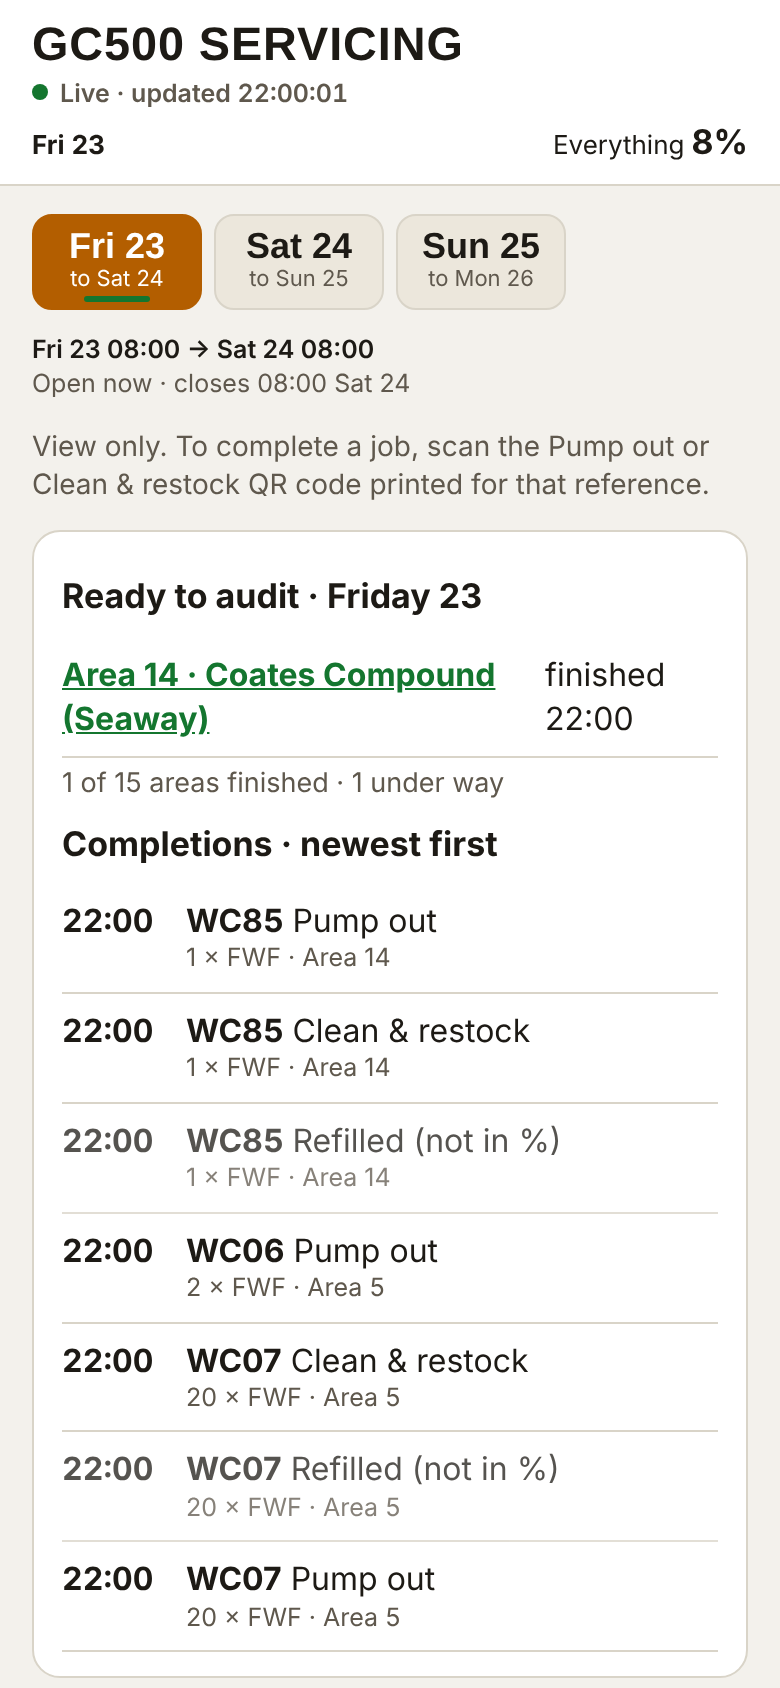
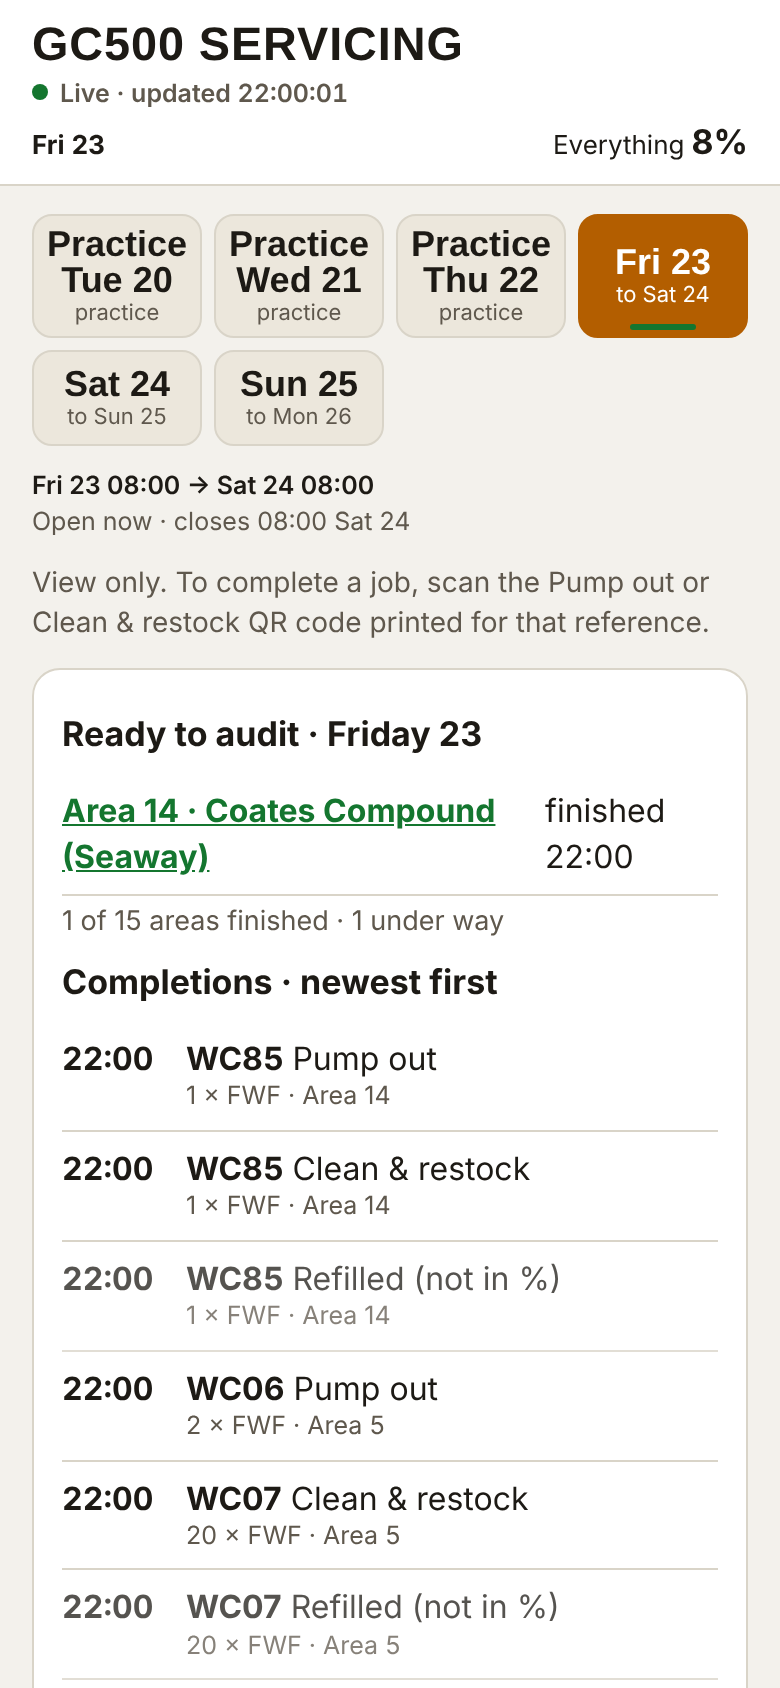
v10.86 LIVE: practice days so permanent servicing codes tick now; T0024 to Area 3, WC85 to Area 14
Claude-Session: https://claude.ai/code/session_01GNRrrx1C9yJ5N627f7yfrr

diff --git a/03_GC500_Delivery_Control/servicing_tracker_DRAFT/card/card_src.js b/03_GC500_Delivery_Control/servicing_tracker_DRAFT/card/card_src.js
@@ -496,14 +496,14 @@ function bannersHtml(day, auto) {
 }
 function daysHtml(day, auto) {
   return DAYS.map(function (d) {
-    var sub = d.ifNeeded ? 'if needed' : 'to ' + d.to;
+    var sub = d.practice ? 'practice' : d.ifNeeded ? 'if needed' : 'to ' + d.to;
     return '<button class="day' + (d.id === auto ? ' today' : '') + '" type="button" id="day-' + esc(d.id) + '" data-day="' + esc(d.id) + '" aria-pressed="' + (d.id === day) + '" aria-label="' + esc(longDay(d.id) + ', 08:00 to 08:00' + (d.ifNeeded ? ', if needed' : '') + (d.id === auto ? ', today' : '')) + '"><b>' + esc(d.label) + '</b><span>' + esc(sub) + '</span></button>';
   }).join('');
 }
 function windowHtml(day) {
   var d = dayOf(day), s = dayStart(day), e = s + 24 * HOUR, n = now();
   var state = !synced ? 'Waiting for the service clock' : pick && pick.late ? 'Late ticks for ' + longDay(day) + '\'s service' : n < s ? 'Opens ' + d.label + ' 08:00' : n >= e ? 'Closed ' + d.to + ' 08:00' : 'Open now · closes 08:00 ' + d.to;
-  return '<span><b>' + esc(d.label + ' 08:00 → ' + d.to + ' 08:00') + '</b>' + (d.ifNeeded ? ' · only if Thursday is serviced' : '') + (d.plan === 'final' ? ' · last night' : '') + '</span><span>' + esc(state) + '</span>';
+  return '<span><b>' + esc(d.label + ' 08:00 → ' + d.to + ' 08:00') + '</b>' + (d.practice ? ' · practice only, not the event' : '') + (d.ifNeeded ? ' · only if Thursday is serviced' : '') + (d.plan === 'final' ? ' · last night' : '') + '</span><span>' + esc(state) + '</span>';
 }
 function progHtml(label, s, refWord) {
   return '<div><div class="pl"><span class="pn">' + esc(label) + '</span><em>' + s.pct + '%</em></div>' + bar(s.pct, !!s.finished) +

diff --git a/03_GC500_Delivery_Control/servicing_tracker_DRAFT/card/build_card.js b/03_GC500_Delivery_Control/servicing_tracker_DRAFT/card/build_card.js
@@ -25,7 +25,7 @@ function cardData(data, opts) {
     plans: data.plans,
     extras: data.extras || [],
     groups: data.groups || {},
-    days: data.days.map(d => pick(d, ['id', 'label', 'to', 'plan', 'ifNeeded'])),
+    days: data.days.map(d => pick(d, ['id', 'label', 'to', 'plan', 'ifNeeded', 'practice'])),
     areas: data.areas.map(a => ({
       n: a.n, name: a.name,
       refs: a.refs.map(r => Object.assign(pick(r, ['ref', 'title', 'where', 'drop', 'pin']), {

diff --git a/03_GC500_Delivery_Control/v10.86_practice_days_LIVE/patch_v1086.py b/03_GC500_Delivery_Control/v10.86_practice_days_LIVE/patch_v1086.py
@@ -1,0 +1,34 @@
+"""Author: Andrew Fisher. v10.86 - permanent servicing codes that work now: practice days, T0024 to Area 3, WC85 to Area 14.
+
+Andrew, 20 Oct 2026: "Refernce 1 makes no sense 2 diffiremt locations. And where is wc85 linked to ... can we have set qr
+codes made now that dont change.. So if i wanted to have a third party do akterations i could ... ill rather have this
+live for a couple of days. So i can have a play with it. Amd wr can also delete this data later too" and "so working qr
+codes to live area to complete". servicing_tracker_DRAFT/tracker_data.json:
+  - T0024 (EVL) moves from Area 1 to Area 3 (it sat 52 m from WC05, away from the rest of Area 1);
+  - WC85 (Coates compound on the Seaway, 4.7 km off the circuit; pin confirmed by Andrew) gets its own Area 14;
+  - practice days Tue 20, Wed 21, Thu 22 come before Fri 23 - Sun 25, so the event tracker's printed codes tick now.
+    Each day's % is its own: practice ticks never touch Friday to Sunday. Practice days are never on paper.
+The tracker block is regenerated by v10.84's own recipe; nothing else changes. Footer v10.85 -> v10.86.
+
+    python3 patch_v1086.py page.html      (in place, on the live v10.85 page)
+"""
+import hashlib, sys
+from pathlib import Path
+HERE = Path(__file__).resolve().parent
+sys.path.insert(0, str(HERE.parent / 'v10.84_servicing_tab_LIVE')); sys.path.insert(0, str(HERE.parent / 'toolchain'))
+import patch_v1084 as P
+from rep import rep
[1 lines of base64/hex data omitted]
+
+def patch(text):
+    if hashlib.sha256(text.encode('utf-8')).hexdigest() != BASE_SHA256: raise ValueError('v10.86 requires the live v10.85 page ' + BASE_SHA256)
+    i = text.index(P.OPEN) + len(P.OPEN); j = text.index(P.CLOSE, i)
+    new = P.tracker_block()
+    if new == text[i:j]: raise ValueError('nothing to change')
+    for must in ('Practice Tue 20', 'Coates Compound (Seaway)', '"practice":true'):
+        if must not in new: raise ValueError('tracker block lacks ' + must)
+    text = text[:i] + new + text[j:]
+    return rep(text, "+ ' · v10.85'; /* v8.19 release922", "+ ' · v10.86'; /* v8.19 release922", 'release footer', 'page')
+
+if __name__ == '__main__':
+    page = Path(sys.argv[1]); page.write_text(patch(page.read_text()))

diff --git a/03_GC500_Delivery_Control/servicing_tracker_DRAFT/print/make_sheets.py b/03_GC500_Delivery_Control/servicing_tracker_DRAFT/print/make_sheets.py
@@ -109,7 +109,8 @@ class Data:
     def __init__(self, path=None, raw=None):
         raw = Path(path).read_bytes() if raw is None else raw; d = json.loads(raw)
         self.sha = hashlib.sha256(raw).hexdigest(); self.version = d.get('version', '')
-        self.tasks, self.plans, self.days, self.areas = d['tasks'], d['plans'], d['days'], d['areas']
+        self.tasks, self.plans, self.areas = d['tasks'], d['plans'], d['areas']
+        self.days = [x for x in d['days'] if not x.get('practice')]   # practice days (Andrew, 20 Oct 2026) are on the phone, never on paper
         # v2, Andrew 20 Oct 2026: a Pump out QR and a Clean & restock QR per reference; Refilled is ticked, never counted
         self.extras, self.groups = d.get('extras', []), d.get('groups', {})
         self.refs = [r for a in self.areas for r in a['refs']]

diff --git a/03_GC500_Delivery_Control/STATUS.md b/03_GC500_Delivery_Control/STATUS.md
@@ -1,3 +1,5 @@
+LIVE — v10.86 permanent servicing codes that work now (Claude). 20 Oct 2026 17:32 AEST. Page d18ac8bff7966fd10a4c1ba954a8856b676bd747dfcbd716a5e3354d130f7f76 (18,528,557 bytes) on v10.85 ab4d064d; guarded upload, byte for byte. Tracker data: T0024 Area 1 -> Area 3 (Area 1 showed two spots); WC85 own Area 14 Coates Compound (Seaway), Andrew's pin within 1 m of the record's; practice days Tue 20 - Thu 22 before Fri 23 - Sun 25 on the one event tracker so printed codes tick now (each day's % is its own; practice never on paper). Print pack: toilet icons labelled REF - what is there, legend, master key in two rows, every How to use step prints. e2e 21/21 on a practice day; test_card_v2 46/46; test_sheets 47/47. Next: servicing contact phone from Andrew, then Create event tracker live, real pack from the private bundle, scan-check against live. Folder v10.86_practice_days_LIVE/. Author: Andrew Fisher.
+
 LIVE — v10.85 WC09 sewer-connected; servicing proved end to end (Claude). 20 Oct 2026 16:24 AEST. Page ab4d064d997f8e94e71c4041e8e195ee6fd9717c8f6c9d493199ed4783daaca9 (18,527,820 bytes) on v10.84 396ea971; guarded upload, byte for byte; sweeps clean. 9 sewer blocks (T0243, WC09 x2, WC15 x2, WC16 x2, WC17 x2); the other 6 have waste tanks. test_e2e_v2 20/20 on the live server code locally: GC500 creates the tracker, the pack's 144 job codes decode, a phone completes with a time, the service, phone and Servicing tab agree on the %. Also today (record 10051 -> 10185+): WC31/T0024 inventory, GN20 deleted, Schedule 11 (TM01 x10, GN24 60 kVA), all on-site labour charges, fire extinguisher on every building (+$2,029.95), VMS05 installed, T0021 pinned. Folder v10.85_wc09_sewer_LIVE/. Author: Andrew Fisher.
 
 LIVE — v10.84 Servicing tab; servicing tracker v2; Andrew's pins lead; radios R&M off (Claude). 20 Oct 2026 11:46 AEST. Page 396ea971e968e55182b054a936de316a82fa3751df6ba6d7cc566973d578bc0b (18,527,956 bytes) on v10.83 fe480d51; guarded upload, byte for byte; test_v1084 17/17 on the live record; sweeps desktop + phone clean (25 tabs). Servicing has its own tab (edit link: progress, tracker list, crew-card maker; view link says where). Tracker v2: Pump out and Clean & restock codes per reference, Complete then Save & close, Refilled not counted, Fri/Sat/Sun, Sunday lock-up for FWF/accessible/16-pan, audit list on the view-only card; test_card_v2 45/45. Andrew's own pins (12 references) lead Navigate and the inventory as "Andrew's pin". Costs: Equip R&M radios $578 removed (tracker total 15,375.35 -> 14,797.35). Record 10051 -> 10065 (VERIFIED): WC31 1317645 is the Accessible Toilet (12 and 74: 2 on site/2 received; Hire -> Rehire $5,704, revenue -$156.15, Andrew chose Apply); T0024 2 FWF, supplied 2, complete (0164: 1 on site/1 received); WC31 steps off. Next: print pack with two QRs per reference, TEST rehearsal, servicing contact, Create event tracker. Folder v10.84_servicing_tab_LIVE/. Author: Andrew Fisher.

diff --git a/03_GC500_Delivery_Control/v10.86_practice_days_LIVE/README.md b/03_GC500_Delivery_Control/v10.86_practice_days_LIVE/README.md
@@ -1,0 +1,34 @@
+# v10.86 — permanent servicing codes that work now (practice days), T0024 to Area 3, WC85 to Area 14
+
[1 lines of base64/hex data omitted]
+(18,528,557 bytes), on v10.85 `ab4d064d…`. Guarded upload, byte for byte. Author: Andrew Fisher.
+
+Andrew, 20 Oct 2026: "Refernce 1 makes no sense 2 diffiremt locations. And where is wc85 linked to ... can we have set qr
+codes made now that dont change.. So if i wanted to have a third party do akterations i could ... ill rather have this
+live for a couple of days. So i can have a play with it. Amd wr can also delete this data later too", then "need these
+maps all done and qr permenetly correct so i can get a third party to make alterations and have these printed" and
+"so working qr codes to live area to complete".
+
+## What changed (tracker data only; the tracker block is regenerated by v10.84's recipe)
+- **Area 1** had two spots on the map because T0024 (EVL) sat 52 m from WC05, away from the rest of Area 1. T0024 is now in Area 3.
+- **WC85** is at the Coates compound on the Seaway, 4.7 km off the circuit. Andrew's pin (-27.93863, 153.42648) is within
+  1 m of the record's. It has its own **Area 14 "Coates Compound (Seaway)"**.
+- **Practice days Tue 20, Wed 21, Thu 22** come before Fri 23 – Sun 25 on the one event tracker, so the printed codes
+  tick now. Each day's % is its own: practice ticks never touch Friday to Sunday. Practice days are on the phone
+  ("Practice Tue 20 · practice only, not the event"), never on paper.
+
+## Why the codes are permanent
+A code is `/d/<tracker token>#r=<REF>.<signature>~pump|~clean`. The signature is the service's own, per tracker and
+reference. Updating the tracker (Create / update event tracker again, same token) keeps every printed code. Areas, maps,
+wording, layout, practice days removed later: none of it changes a code. A third party can rebuild the sheets from
+the private QR bundle with `servicing_tracker_DRAFT/print/make_sheets.py` and the codes stay the same.
+
+## Checks
+- `tests/test_e2e_v2.cjs` 21/21 at Tue 20 Oct 22:00 (practice day). Live server code v5.91 ran locally on a copy of
+  the live record. Chain: Create event tracker (6 days) → bundle → pack → 144 job codes decode → phone Complete with
+  time → Save & close → service holds the ticks → phone % = GC500 Servicing tab %. Fri/Sat/Sun stay 0%. No record write.
+- test_card_v2 46/46 (practice days and day buttons added). Print pack test_sheets 47/47.
+
+## Still to do
+Create the event tracker on the live service. It needs a servicing contact phone; the page refuses without one.
+Then download the private bundle, build the real pack, scan-check it against live, and send it to Andrew.
